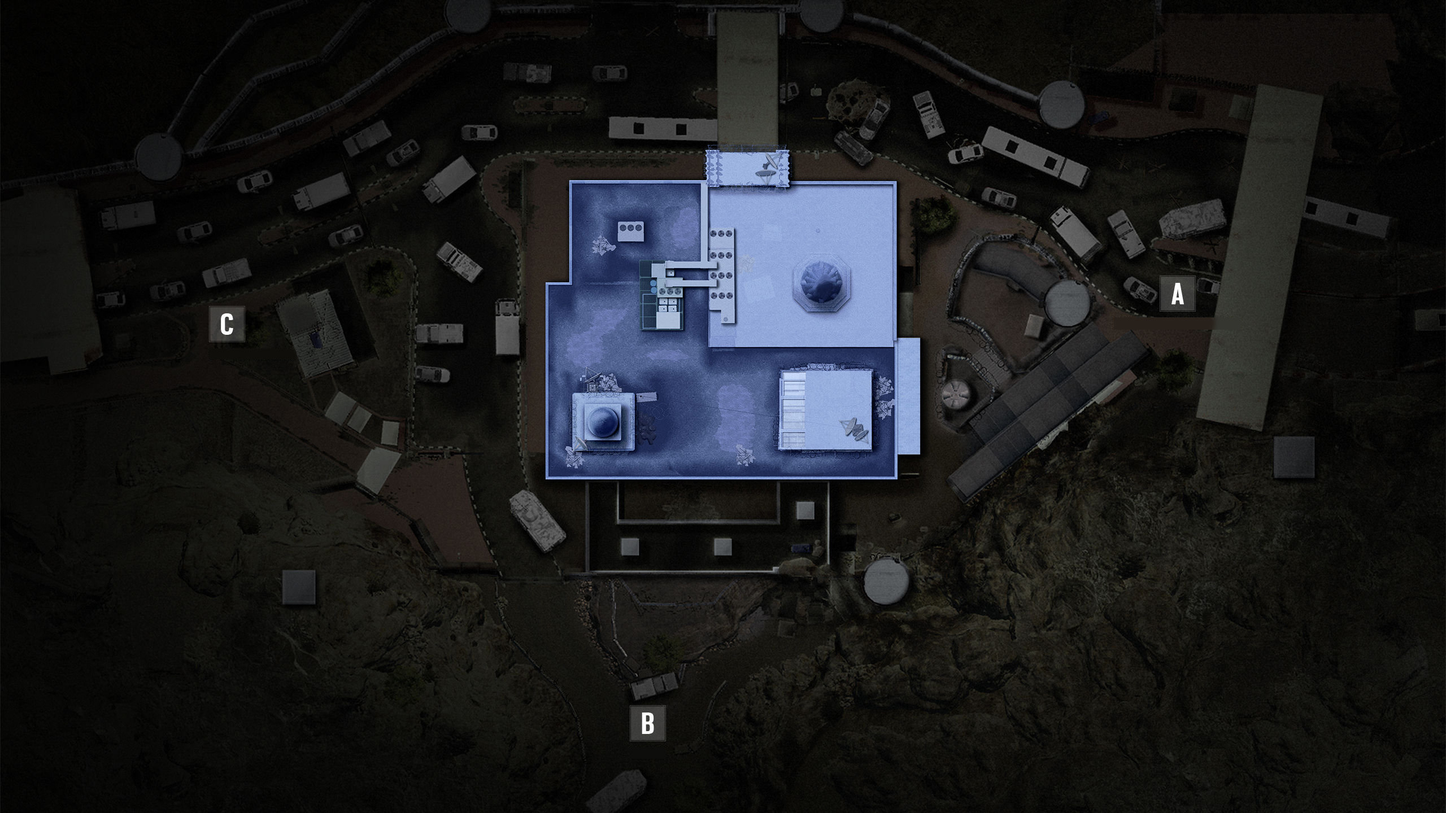
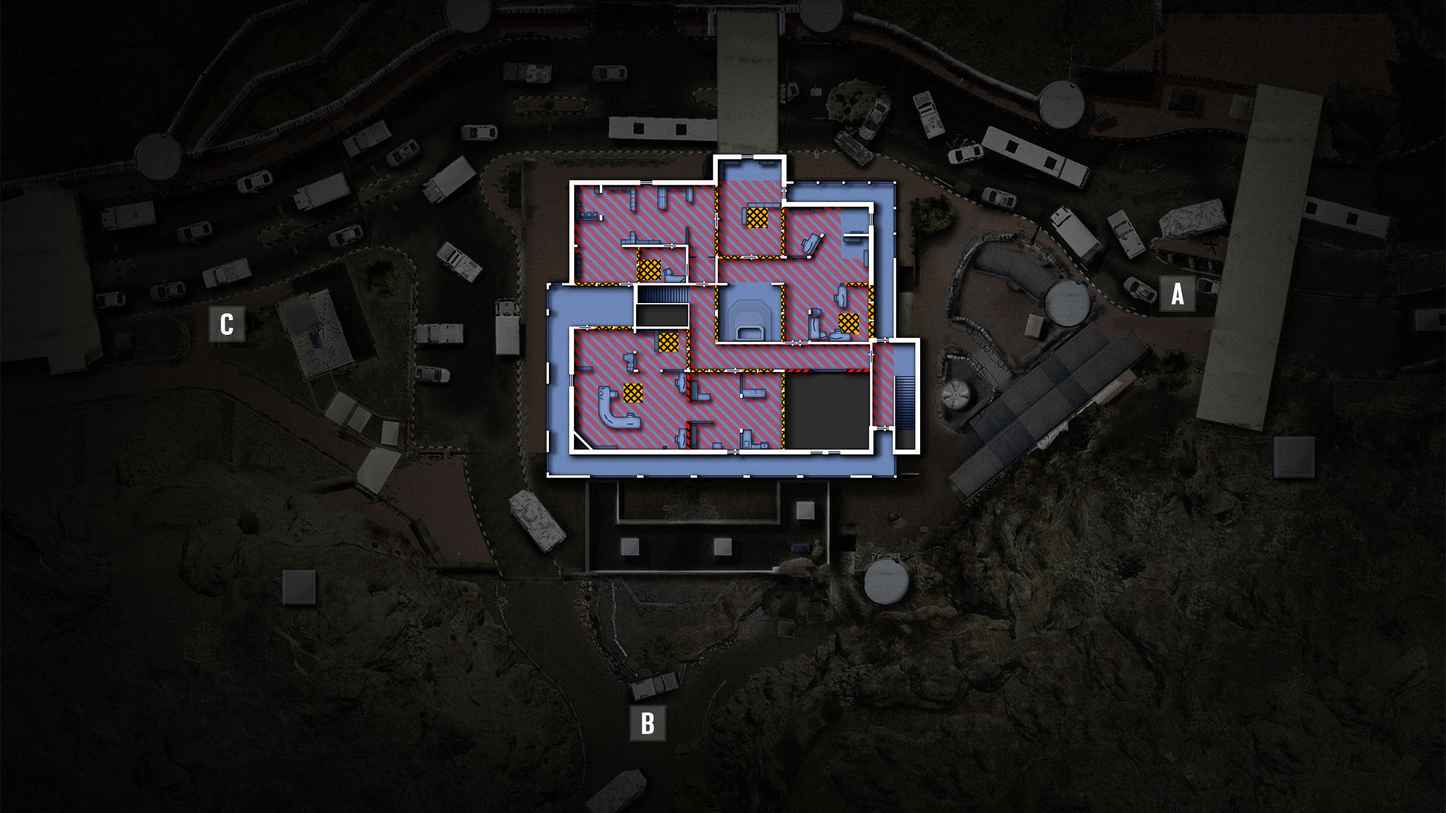
fix border map and some data stuff

Changed region(s): [[0.375, 0.1875, 0.6562, 0.5938]]

diff --git a/public/javascripts/data.js b/public/javascripts/data.js
@@ -45,15 +45,15 @@ const MAP_DATA = {
         }
     },
     BORDER: {
-        thumbnail: "border/border-3.jpg",
+        thumbnail: "border/border-1.jpg",
         floors: {
             first: {
                 floorNum: 0,
-                img: "border/border-3.jpg"
+                img: "border/border-0.jpg"
             },
             second: {
                 floorNum: 1,
-                img: "border/border-1.jpg"
+                img: "border/border-2.jpg"
             },
             third: {
                 floorNum: 2,
@@ -152,31 +152,31 @@ const GADGET_DATA = {
     barricade: {name: "Barricade", icon: "barricade.png"},
     reinforcement: {name: "Reinforcement", icon: "reinforcement.png"},
     hole: {name: "Hole", icon: "hole.png"},
-    mute: {name: "Mute Jammer", icon: "jammer.png"},
-    thatcher: {name: "EMP Grenade", icon: "emp.png"},
-    thermite: {name: "Thermite Charge", icon: "exothermic.png"},
-    castle: {name: "Castle Barricade", icon: "castle.png"},
-    fuze: {name: "Fuze Charge", icon: "cluster.png"},
-    kapkan: {name: "Kapkan Device", icon: "edd.png"},
-    jager: {name: "ADS", icon: "trophy.png"},
-    bandit: {name: "Battery", icon: "battery.png"},
-    kaid: {name: "ElectroClaw", icon: "electroclaw.png"},
-    gridlock: {name: "Trax Stinger", icon: "trax.png"},
-    mozzie: {name: "Pest", icon: "pest.png"},
-    hibana: {name: "Hibana Pellets", icon: "hibana.png"},
-    alibi: {name: "Prisma", icon: "prisma.png"},
+    jammer: {name: "Mute Jammer", icon: "jammer.png"},
+    emp: {name: "EMP Grenade", icon: "emp.png"},
+    exothermic: {name: "Thermite Charge", icon: "exothermic.png"},
+    bulletproofBarricade: {name: "Castle Barricade", icon: "castle.png"},
+    clusterCharge: {name: "Fuze Charge", icon: "cluster.png"},
+    entryDenial: {name: "Kapkan Device", icon: "edd.png"},
+    activeDefenseSystem: {name: "ADS", icon: "trophy.png"},
+    battery: {name: "Battery", icon: "battery.png"},
+    electroclaw: {name: "ElectroClaw", icon: "electroclaw.png"},
+    trax: {name: "Trax Stinger", icon: "trax.png"},
+    pest: {name: "Pest", icon: "pest.png"},
+    xKairos: {name: "Hibana Pellets", icon: "hibana.png"},
+    prisma: {name: "Prisma", icon: "prisma.png"},
     capitaoF: {name: "Fire Bolt", icon: "fire_bolt.png"},
     // capitaoS: {name: "Smoke Bolt", icon: "smoke_bolt.png"},
-    echo: {name: "Yokai Drone", icon: "yokai.png"},
-    ela: {name: "Grzmot Mine", icon: "grzmot.png"},
-    frost: {name: "Frost Trap", icon: "bear_trap.png"},
-    lesion: {name: "Gu Mine", icon: "gu.png"},
-    maestro: {name: "Evil Eye", icon: "evil_eye.png"},
-    maverick: {name: "Blowtorch", icon: "blowtorch.png"},
-    mira: {name: "Mira Window", icon: "black_mirror.png"},
-    nomad: {name: "Airjab", icon: "airjab.png"},
-    tachanka: {name: "Turret", icon: "turret.png"},
-    valkyrie: {name: "Black Eye", icon: "black_eye.png"},
+    yokai: {name: "Yokai Drone", icon: "yokai.png"},
+    grzmot: {name: "Grzmot Mine", icon: "grzmot.png"},
+    welcomeMat: {name: "Frost Trap", icon: "bear_trap.png"},
+    gu: {name: "Gu Mine", icon: "gu.png"},
+    evilEye: {name: "Evil Eye", icon: "evil_eye.png"},
+    blowtorch: {name: "Blowtorch", icon: "blowtorch.png"},
+    blackMirror: {name: "Mira Window", icon: "black_mirror.png"},
+    airjab: {name: "Airjab", icon: "airjab.png"},
+    turret: {name: "Turret", icon: "turret.png"},
+    blackEye: {name: "Black Eye", icon: "black_eye.png"},
 };
 const SCREEN_WIDTH = 1920;
 const SCREEN_HEIGHT = 1080;
